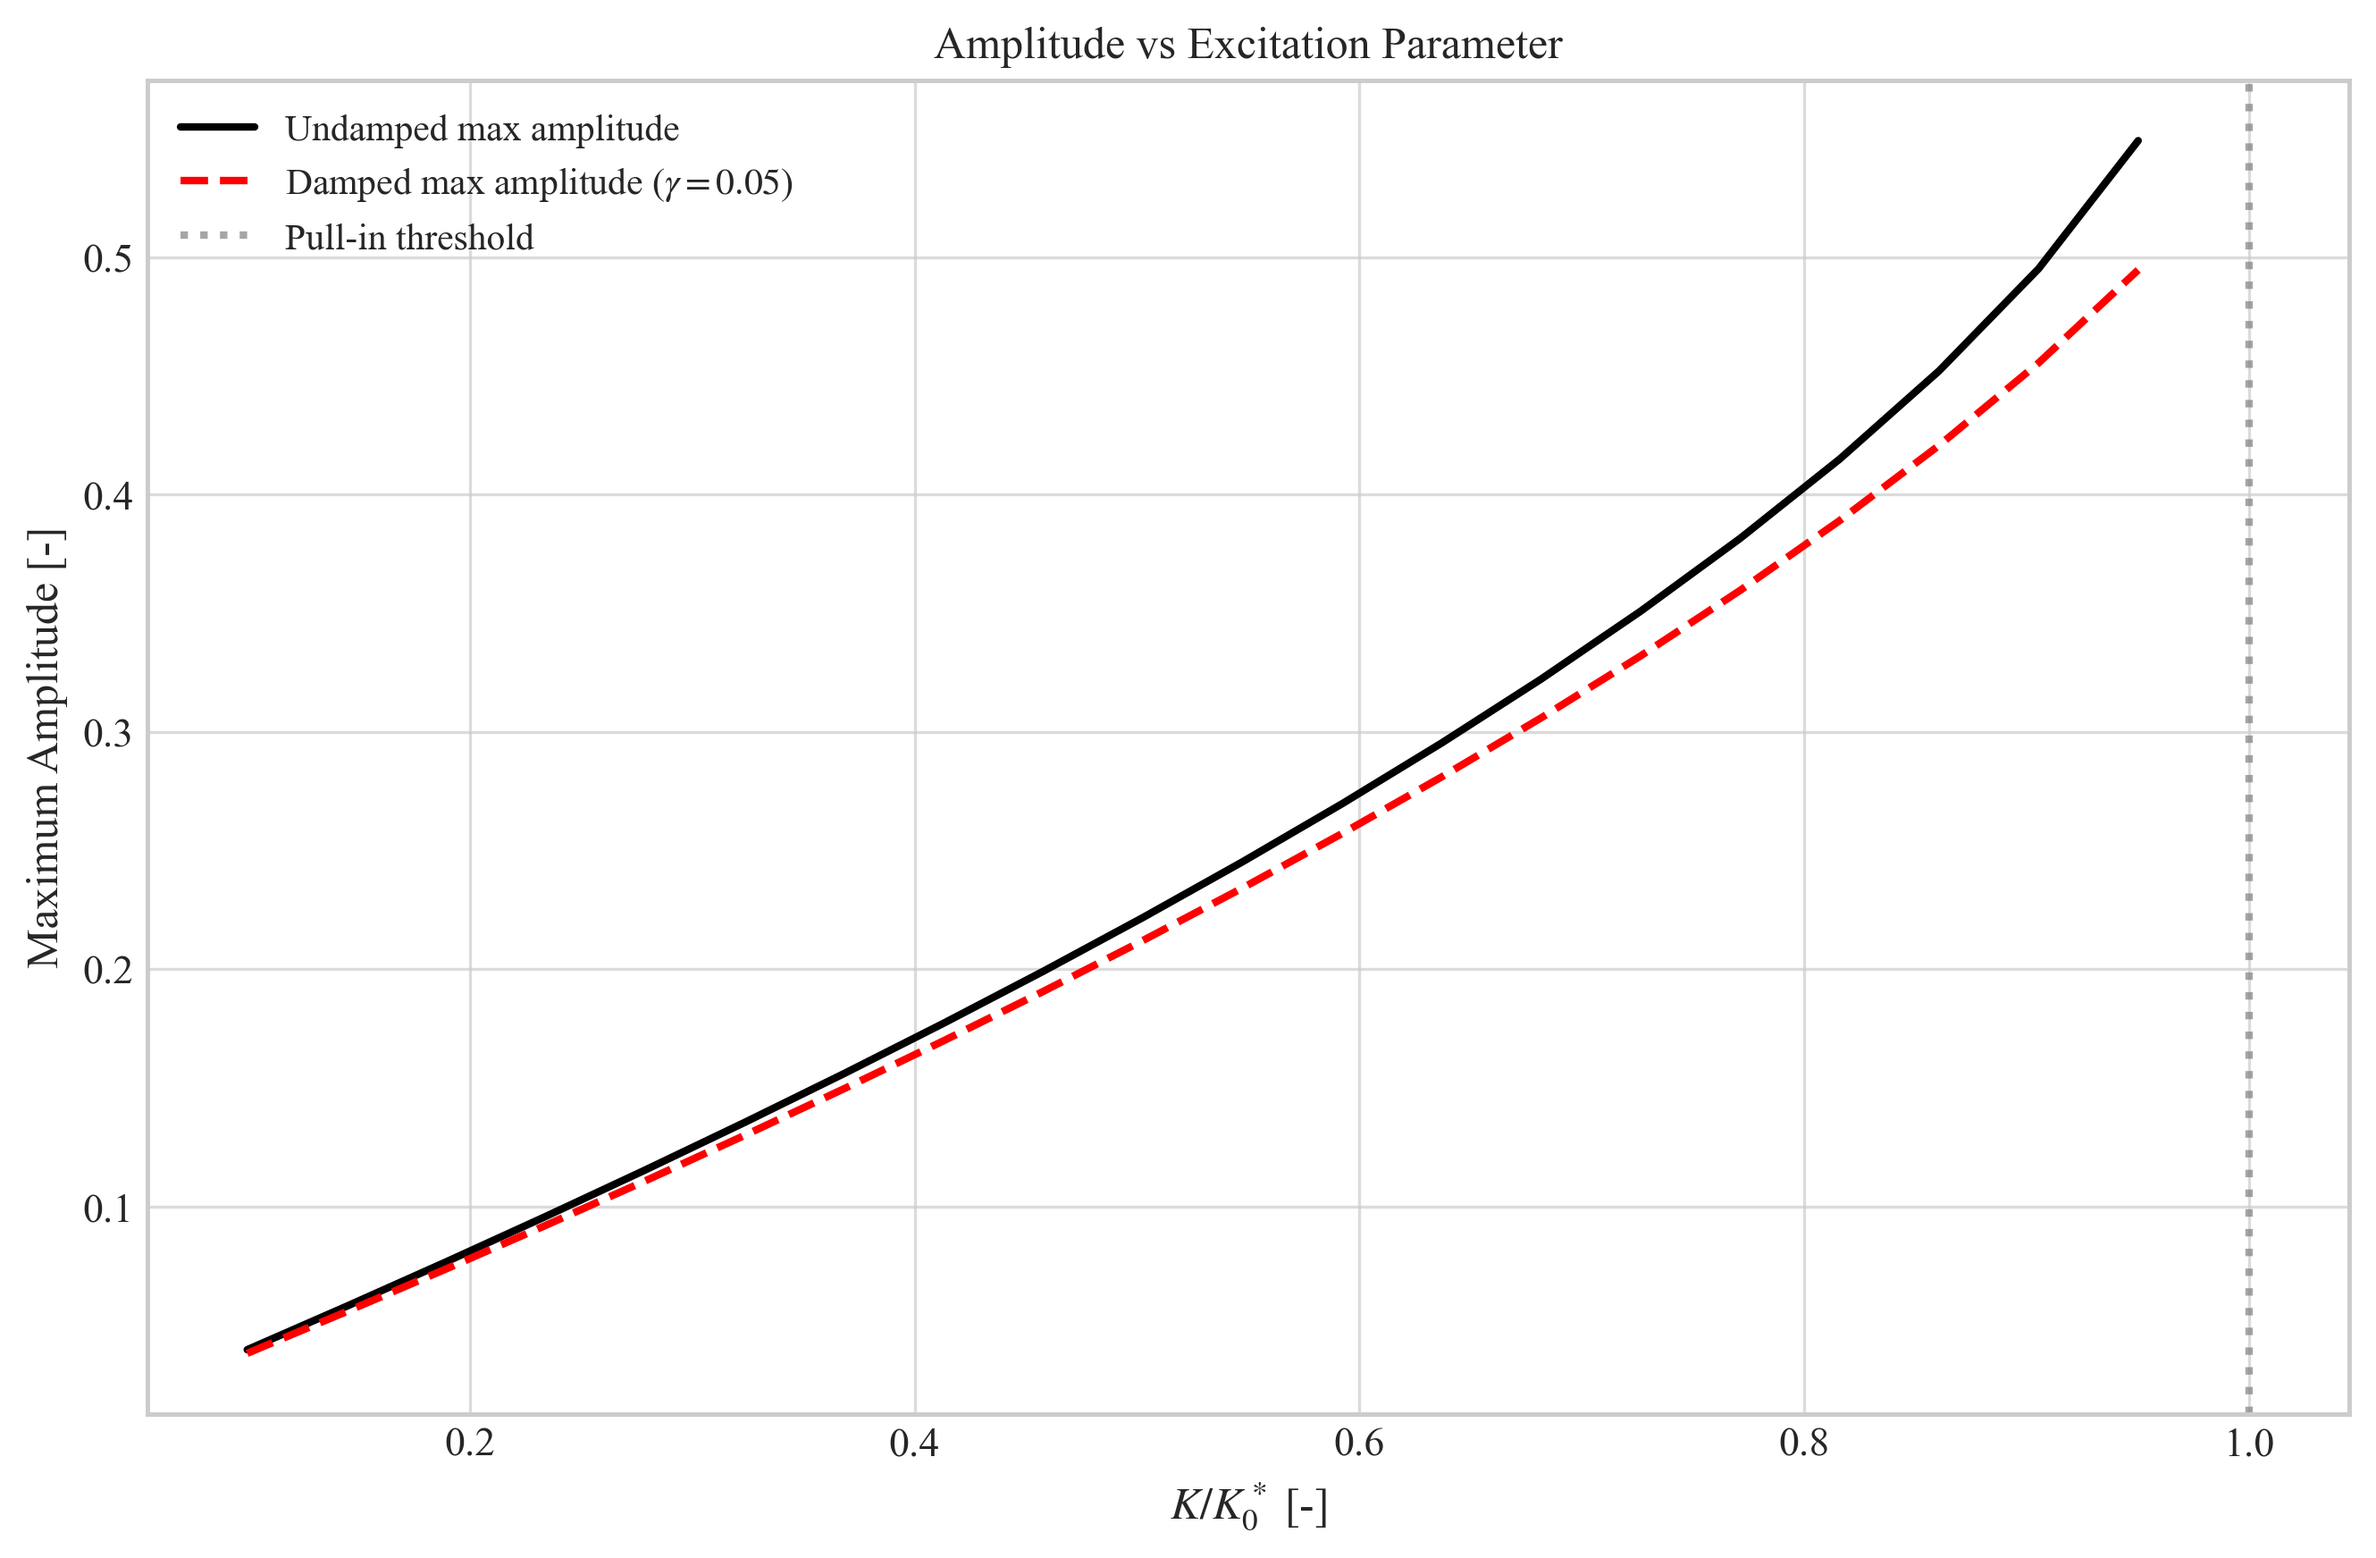
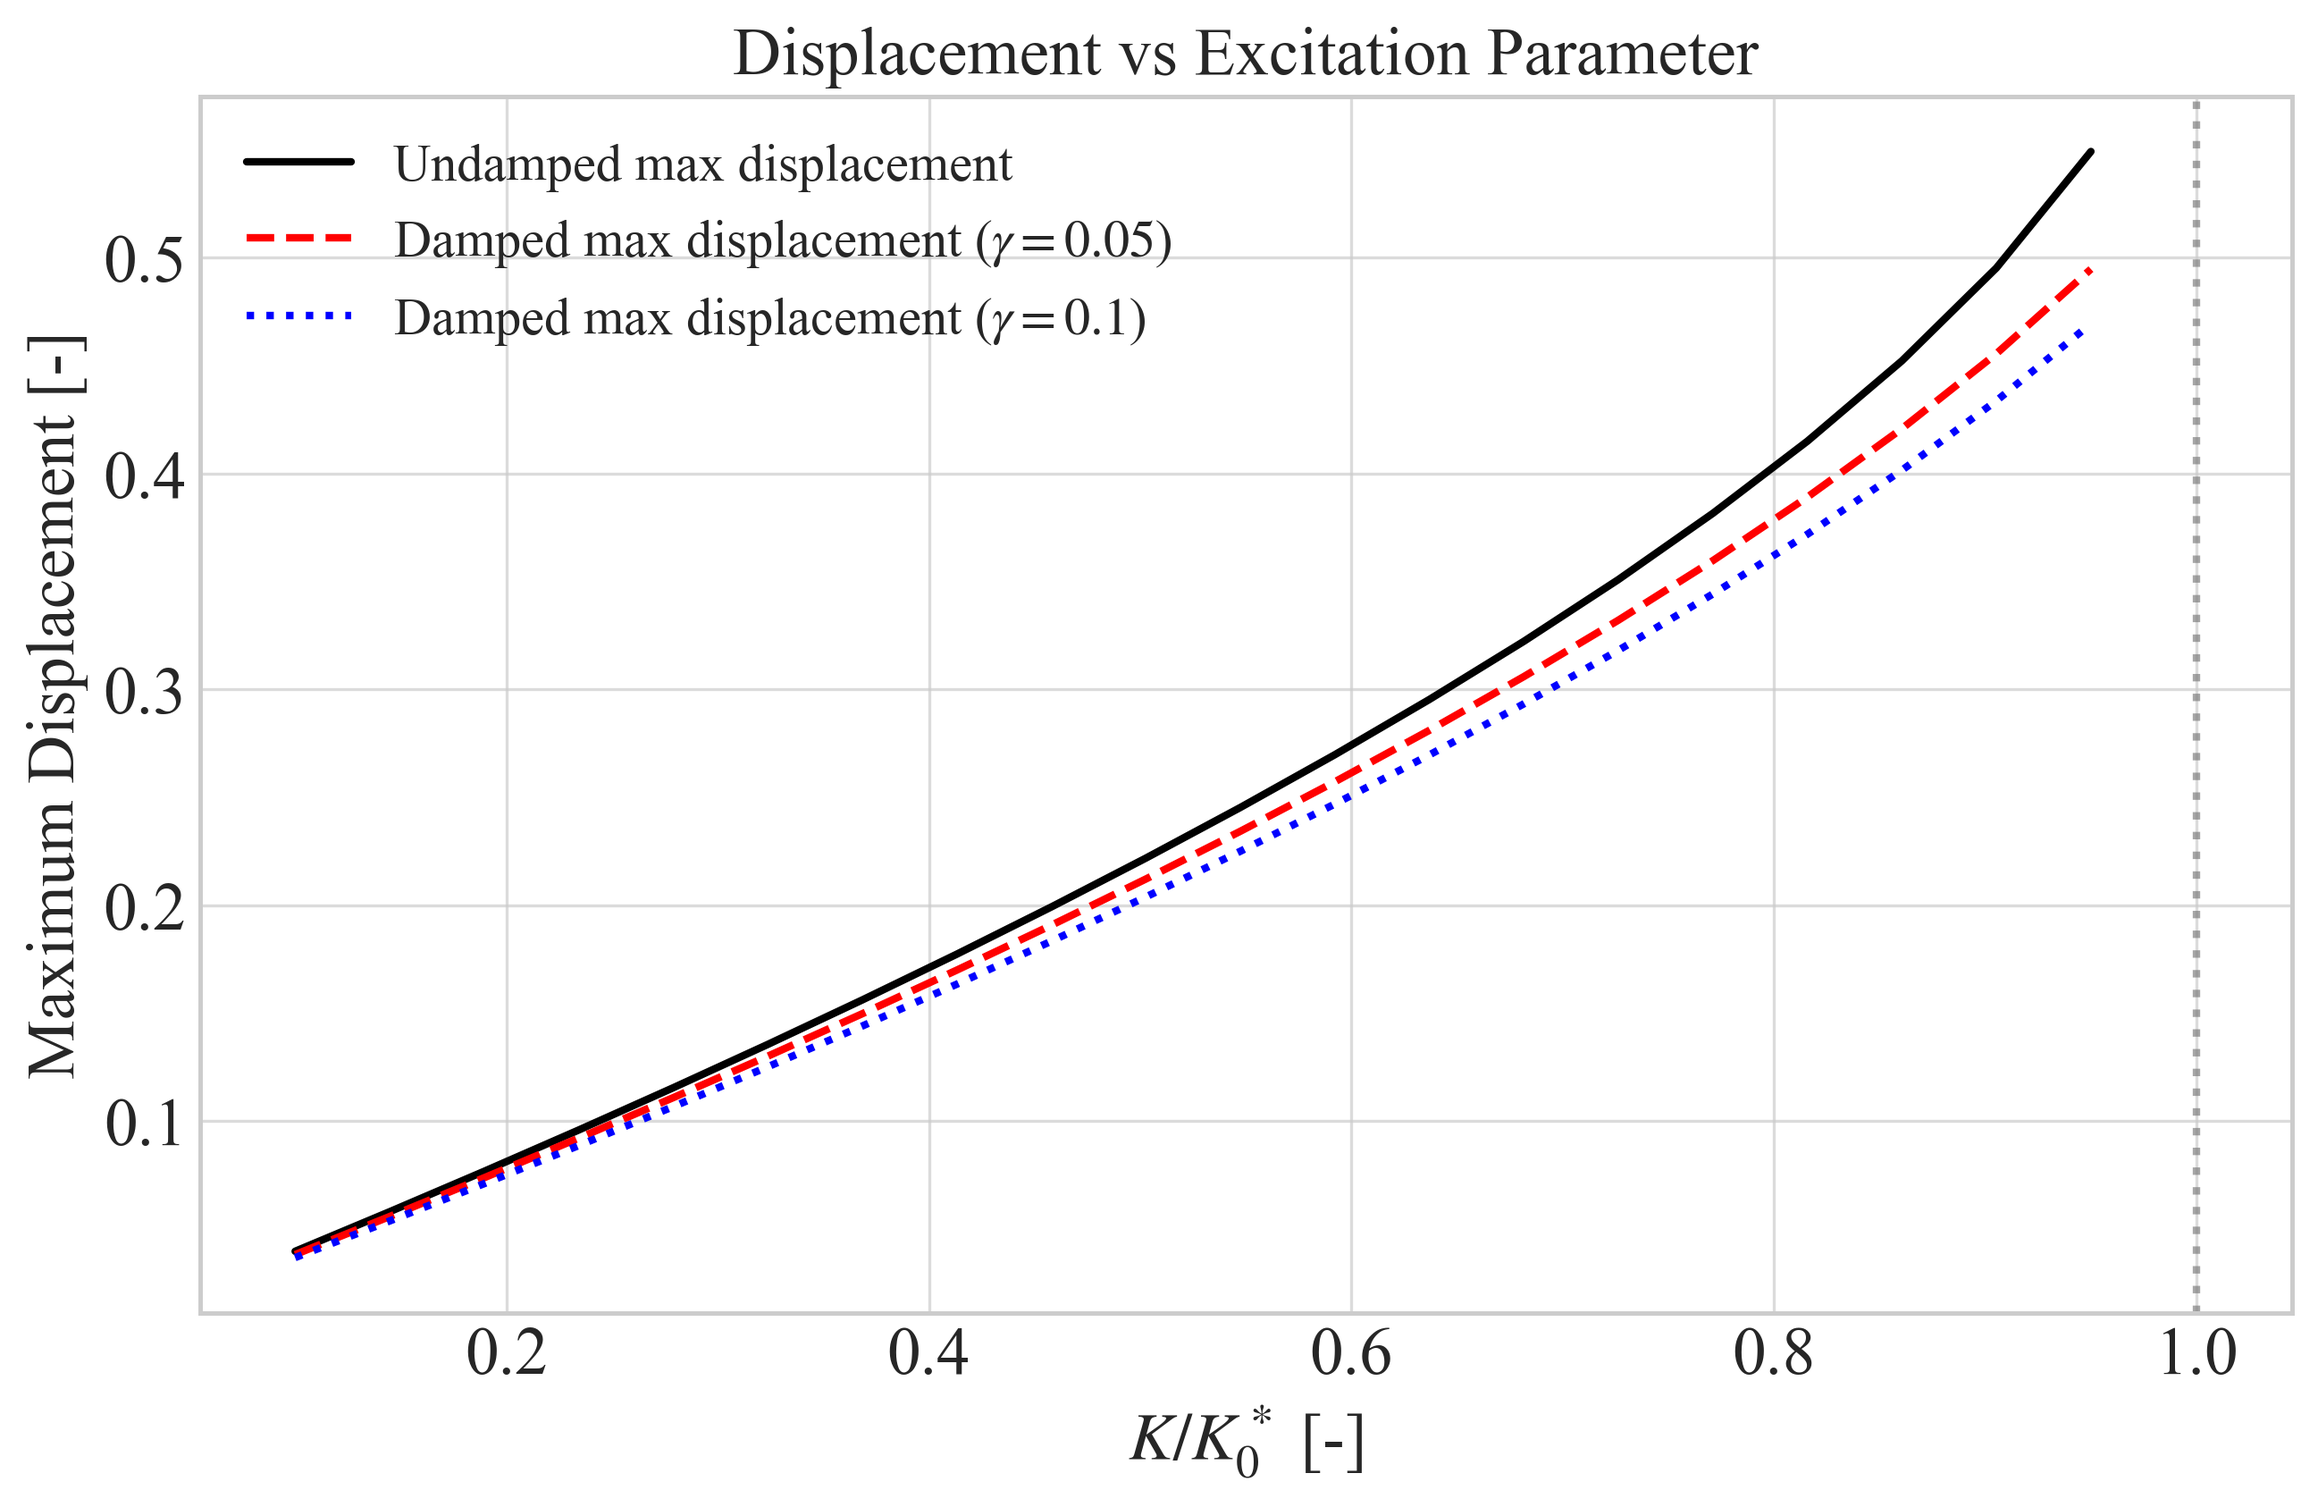
updated plots

diff --git a/magMEMS_plots.py b/magMEMS_plots.py
@@ -6,7 +6,7 @@ from scipy.optimize import fsolve
 # Set plotting style
 plt.style.use('seaborn-v0_8-whitegrid')
 plt.rcParams.update({
-    'font.size': 11,
+    'font.size': 18,
     'font.family': 'serif',
     'font.serif': ['Palatino', 'Times New Roman', 'DejaVu Serif'],
     'axes.linewidth': 1.2,
@@ -132,9 +132,9 @@ def create_detailed_comparison():
                        linewidth=2, alpha=alpha,
                        label=r'damped $\gamma=%s$ for $K = %s K_0^*$' % (gamma, K_frac))
     
-    ax.set_xlabel(r'$t$ [-]', fontsize=13, fontweight='bold')
-    ax.set_ylabel(r'displacement [-]', fontsize=13, fontweight='bold')
-    ax.set_title(r'$\xi = 0$, $K_0^* = 0.203632188...$', fontsize=13, fontweight='bold')
+    ax.set_xlabel(r'$t$ [-]', fontsize=18, fontweight='bold')
+    ax.set_ylabel(r'displacement [-]', fontsize=18, fontweight='bold')
+    ax.set_title(r'$\xi = 0$, $K_0^* = 0.203632188...$', fontsize=18, fontweight='bold')
     
     ax.grid(True, alpha=0.7, linewidth=0.8)
     ax.set_axisbelow(True)
@@ -143,7 +143,7 @@ def create_detailed_comparison():
     ax.set_xticks(np.arange(0, 26, 5))
     ax.set_yticks(np.arange(0, 0.8, 0.1))
     
-    ax.legend(bbox_to_anchor=(1.05, 1), loc='upper left', fontsize=10,
+    ax.legend(bbox_to_anchor=(1.05, 1), loc='upper left', fontsize=14,
              frameon=True, fancybox=True, shadow=True)
     
     for spine in ax.spines.values():
@@ -160,28 +160,34 @@ def create_amplitude_vs_excitation():
     fig, ax = plt.subplots(figsize=(9, 6))
     K_range = np.linspace(0.1, 0.95, 20) * analyzer.K_star_approx
     max_amplitudes_undamped = []
-    max_amplitudes_damped = []
+    max_amplitudes_damped_005 = []
+    max_amplitudes_damped_01 = []
     
     for K in K_range:
         a = analyzer.galerkin_coefficient_a(K)
         if a is not None:
             max_amplitudes_undamped.append(2*a)
-            y_damped = analyzer.solve_damped(np.linspace(0, 20, 800), K, 0.05)
-            max_amplitudes_damped.append(np.max(y_damped) if len(y_damped) > 0 else 0)
+            y_damped_005 = analyzer.solve_damped(np.linspace(0, 20, 800), K, 0.05)
+            max_amplitudes_damped_005.append(np.max(y_damped_005) if len(y_damped_005) > 0 else 0)
+            y_damped_01 = analyzer.solve_damped(np.linspace(0, 20, 800), K, 0.1)
+            max_amplitudes_damped_01.append(np.max(y_damped_01) if len(y_damped_01) > 0 else 0)
         else:
             max_amplitudes_undamped.append(0)
-            max_amplitudes_damped.append(0)
+            max_amplitudes_damped_005.append(0)
+            max_amplitudes_damped_01.append(0)
     
     ax.plot(K_range/analyzer.K_star_approx, max_amplitudes_undamped, 'k-', 
-            linewidth=2, label=r'Undamped max amplitude')
-    ax.plot(K_range/analyzer.K_star_approx, max_amplitudes_damped, 'r--', 
-            linewidth=2, label=r'Damped max amplitude ($\gamma=0.05$)')
-    ax.axvline(x=1.0, color='gray', linestyle=':', alpha=0.7, label=r'Pull-in threshold')
+            linewidth=2, label=r'Undamped max displacement')
+    ax.plot(K_range/analyzer.K_star_approx, max_amplitudes_damped_005, 'r--', 
+            linewidth=2, label=r'Damped max displacement ($\gamma=0.05$)')
+    ax.plot(K_range/analyzer.K_star_approx, max_amplitudes_damped_01, 'b:', 
+            linewidth=2, label=r'Damped max displacement ($\gamma=0.1$)')
+    ax.axvline(x=1.0, color='gray', linestyle=':', alpha=0.7)
     
-    ax.set_xlabel(r'$K/K_0^*$ [-]', fontsize=12)
-    ax.set_ylabel(r'Maximum Amplitude [-]', fontsize=12)
-    ax.set_title(r'Amplitude vs Excitation Parameter', fontsize=12)
-    ax.legend(fontsize=10)
+    ax.set_xlabel(r'$K/K_0^*$ [-]', fontsize=18)
+    ax.set_ylabel(r'Maximum Displacement [-]', fontsize=18)
+    ax.set_title(r'Displacement vs Excitation Parameter', fontsize=18)
+    ax.legend(fontsize=14)
     ax.grid(True, alpha=0.7)
     plt.tight_layout()
     plt.savefig('figs/amplitude_vs_excitation.png', dpi=300, bbox_inches='tight')
@@ -191,7 +197,7 @@ def create_ode_vs_galerkin_damped():
     """Create ODE vs Galerkin comparison for damped case"""
     analyzer = MagMEMSAnalyzer(xi=0.0)
     
-    fig, (ax1, ax2) = plt.subplots(2, 1, figsize=(10, 10))
+    fig, (ax1, ax2) = plt.subplots(2, 1, figsize=(12, 8))
     t_comp = np.linspace(0, 100, 3000)
     
     test_cases = [
@@ -208,26 +214,26 @@ def create_ode_vs_galerkin_damped():
         y_ode = analyzer.solve_damped(t_comp, K, gamma)
         y_gal = analyzer.damped_galerkin_solution(t_comp, K, gamma)
         
-        ax1.plot(t_comp, y_ode, '--', color=color, linewidth=2,
+        ax1.plot(t_comp, y_ode, '--', color=color, linewidth=1.5, alpha=0.5,
                 label=r'ODE: $K=%.3fK_0^*$, $\gamma=%.2f$' % (K/analyzer.K_star_approx, gamma))
-        ax1.plot(t_comp, y_gal, '-', color=color, linewidth=2, alpha=0.7,
+        ax1.plot(t_comp, y_gal, '-', color=color, linewidth=1.5, alpha=0.5,
                 label=r'Galerkin: $K=%.3fK_0^*$, $\gamma=%.2f$' % (K/analyzer.K_star_approx, gamma))
         
         error = np.abs(y_ode - y_gal)
-        ax2.plot(t_comp, error, '-', color=color, linewidth=2,
+        ax2.plot(t_comp, error, '-', color=color, linewidth=1.5, alpha=0.5,
                 label=r'$K=%.3fK_0^*$, $\gamma=%.2f$' % (K/analyzer.K_star_approx, gamma))
     
-    ax1.set_xlabel(r'$t$ [-]', fontsize=12)
-    ax1.set_ylabel(r'$y(t)$ [-]', fontsize=12)
-    ax1.set_title(r'ODE vs Galerkin Solutions for Damped Case', fontsize=12)
-    ax1.legend(fontsize=9, ncol=2)
+    ax1.set_xlabel(r'$t$ [-]', fontsize=18)
+    ax1.set_ylabel(r'$y(t)$ [-]', fontsize=18)
+    ax1.set_title(r'ODE vs Galerkin Solutions for Damped Case', fontsize=18)
+    ax1.legend(bbox_to_anchor=(1.05, 1), loc='upper left', fontsize=14, ncol=1)
     ax1.grid(True, alpha=0.7)
     ax1.set_xlim(0, 100)
     
-    ax2.set_xlabel(r'$t$ [-]', fontsize=12)
-    ax2.set_ylabel(r'$|y_{ODE} - y_{Galerkin}|$ [-]', fontsize=12)
-    ax2.set_title(r'Absolute Error Between ODE and Galerkin', fontsize=12)
-    ax2.legend(fontsize=10)
+    ax2.set_xlabel(r'$t$ [-]', fontsize=18)
+    ax2.set_ylabel(r'$|y_{ODE} - y_{Galerkin}|$ [-]', fontsize=18)
+    ax2.set_title(r'Absolute Error Between ODE and Galerkin', fontsize=18)
+    ax2.legend(bbox_to_anchor=(1.05, 1), loc='upper left', fontsize=14)
     ax2.grid(True, alpha=0.7)
     ax2.set_xlim(0, 100)
     ax2.set_yscale('log')
